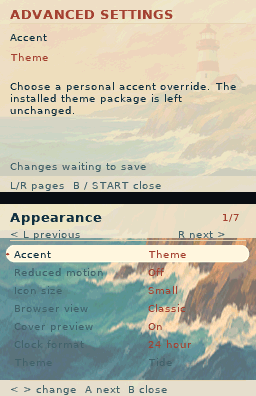
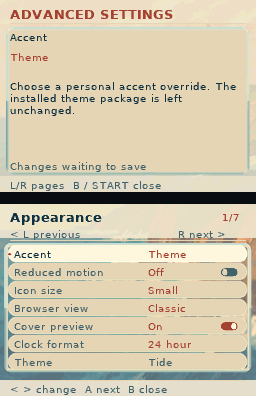
Document and preview themed settings and picker surfaces

diff --git a/tools/make_screenshots.py b/tools/make_screenshots.py
@@ -21,7 +21,12 @@ def main() -> None:
         choices=("boundary", "atmosphere", "personality"),
         help="Render a theme gallery",
     )
+    parser.add_argument(
+        "--theme-dialogs", action="store_true", help="Render settings and cover pickers"
+    )
     args = parser.parse_args()
+    if args.theme_dialogs and args.theme_variants:
+        parser.error("Choose either --theme-dialogs or --theme-variants")
     preview = ROOT / "build/host/preview"
     if not preview.is_file():
         raise SystemExit("Run tools/host-check.sh to build the host renderer first.")
@@ -57,7 +62,19 @@ def main() -> None:
                 )
             )
             examples = [(theme, theme, []) for theme in names]
-        columns = 4 if args.theme_variants == "personality" else 3
+        if args.theme_dialogs:
+            examples = [
+                (f"{theme}-{mode}", theme, [mode])
+                for mode in ("settings", "picker")
+                for theme in ("copper", "folio", "tide", "prism")
+            ]
+            artwork = card / "media/artwork"
+            artwork.mkdir(parents=True, exist_ok=True)
+            for filename in ("Botanical cover.png", "Coastal cover.png"):
+                shutil.copy2(
+                    ROOT / "tests/fixtures/cover-example.png", artwork / filename
+                )
+        columns = 4 if args.theme_dialogs or args.theme_variants == "personality" else 3
         rows = (len(examples) + columns - 1) // columns
         gallery = Image.new("RGB", (256 * columns, 420 * rows), "#090d12")
         for index, (name, theme, extra) in enumerate(examples):
@@ -81,15 +98,21 @@ def main() -> None:
             for screen, y in [("top", 0), ("bottom", 204)]:
                 with Image.open(str(prefix) + f"-{screen}.ppm") as image:
                     combined.paste(image, (0, y))
-            if args.theme_variants:
+            if args.theme_variants or args.theme_dialogs:
                 x, y = (index % columns) * 256, (index // columns) * 420
                 gallery.paste(combined, (x, y + 24))
                 ImageDraw.Draw(gallery).text(
-                    (x + 8, y + 6), theme.title(), fill="white"
+                    (x + 8, y + 6),
+                    (
+                        name.replace("-", " / ").title()
+                        if args.theme_dialogs
+                        else theme.title()
+                    ),
+                    fill="white",
                 )
             else:
                 combined.save(output / f"{name}.png", optimize=True)
-        if args.theme_variants:
+        if args.theme_variants or args.theme_dialogs:
             filename = (
                 "theme-personalities.png"
                 if args.theme_variants == "personality"
@@ -99,6 +122,8 @@ def main() -> None:
                     else "theme-variants.png"
                 )
             )
+            if args.theme_dialogs:
+                filename = "theme-controls.png"
             gallery.save(output / filename, optimize=True)
     print("Updated documentation screenshots from the host renderer.")
 

diff --git a/tools/preview.c b/tools/preview.c
@@ -3,6 +3,7 @@
 #include "audio.h"
 #include "browser.h"
 #include "paths.h"
+#include "picker.h"
 #include "preferences.h"
 #include "renderer.h"
 #include "settings.h"
@@ -52,20 +53,31 @@ static size_t heap_bytes(void)
 int main(int argc, char **argv)
 {
     if (argc < 3) {
-        fprintf(stderr, "usage: preview <SD folder> <output prefix> [category] [quick|settings]\n");
+        fprintf(stderr,
+                "usage: preview <SD folder> <output prefix> [category] [quick|settings|picker]\n");
         return 1;
     }
     bool profile = argc > 4 && !strcmp(argv[4], "profile");
+    bool picker_preview = argc > 4 && !strcmp(argv[4], "picker");
     double started = milliseconds();
     app_init(&app, argv[1], true, true);
     if (argc > 3)
         app_category(&app, atoi(argv[3]));
     if (argc > 4 && !strcmp(argv[4], "settings")) {
         settings_open(&app);
-    } else if (argc > 4 && !profile)
+    } else if (argc > 4 && !profile && !picker_preview)
         app_panel(&app, PANEL_QUICK);
     for (int frame = 0; frame < 20; frame++)
         app_tick(&app);
+    if (picker_preview) {
+        if (!picker_open(&app, PICKER_COVER) ||
+            !path_join(app.picker.path, app.root, "media/artwork"))
+            return 2;
+        picker_scan_begin(&app);
+        for (int frame = 0; frame < 40; frame++)
+            app_tick(&app);
+        path_copy(app.picker.path, "sd:/media/artwork", sizeof app.picker.path);
+    }
     app.panel_age = 20;
     artwork_load(&app);
     if (profile) {

diff --git a/docs/guides/THEME_PACKAGES.md b/docs/guides/THEME_PACKAGES.md
@@ -542,10 +542,10 @@ Inside that package-local directory, supply any of these **32×32 PNGs**:
 | --- | --- |
 | `header.png` | Browser and dialog headings on both screens. |
 | `footer.png` | Bottom control/status bands on both screens. |
-| `panel.png` | Quick-controls and item-action overlay surfaces. |
+| `panel.png` | Quick controls, item actions, settings explanations and picker inspectors. |
 | `row.png` | Ordinary browser rows; drawn beneath the moving selection. |
 | `icon-frame.png` | Transparent bezel around native/associated browser icons. |
-| `artwork-frame.png` | Transparent frame around resolved top-screen artwork. |
+| `artwork-frame.png` | Open frame around artwork, picker previews and settings/picker lists. |
 | `battery-empty.png`, `battery-low.png`, `battery-half.png`, `battery-high.png`, `battery-full.png` | Battery level sprites. |
 | `battery-charging.png`, `battery-unknown.png` | Charging or unavailable battery reading. |
 | `wireless-idle.png` | No active connection established by Gloam. |
@@ -563,6 +563,13 @@ the whole image. When a destination is too small for both corners, the corners
 shrink to fit. This keeps an outline or folded corner intact on a short row and
 a tall cover card. All output clips to the screen, including moving Shelf cards.
 Avoid words and icons inside these images: Gloam draws the live content over them.
+
+Keep the center stretch region of `artwork-frame.png` and `icon-frame.png`
+transparent. The bundled packs leave source pixels 8–23 clear in both directions;
+their material lives in the perimeter. Picker previews draw inside this frame,
+and settings/picker labels retain their usual clipping and touch bounds. Ordinary
+picker/settings choices use `row.png`; the focused choice uses `row-selected.png`.
+Older packs without those optional assets retain the standard drawing.
 
 Each PNG is at most 64 KiB. By default binary alpha and RGB555 follow the icon contract.
 Version-2 packs can add `alpha=coverage` in `[components]` to retain four levels:
@@ -623,6 +630,16 @@ Controls scale as whole sprites except the scrollbar, which uses nine-slice
 scaling. Keep small designs bold. Missing controls retain the standard drawing;
 touch bounds, input handling and text labels stay unchanged. All thirty component
 pixel buffers use at most 60 KiB per bank, plus optional coverage planes.
+
+All bundled packs opt into these controls. Material rims are prepared from the
+illustration masters during authoring, with opaque reading areas and open preview
+centers; the renderer does not sample textures or decode images while drawing.
+The UI asset bank remains one prepared file per theme.
+
+![Copper, Folio, Tide and Prism settings and cover pickers](../images/theme-controls.png)
+
+Regenerate this gallery with `.venv/bin/python tools/make_screenshots.py --theme-dialogs`
+after rebuilding the host preview.
 
 ### Lightweight feedback and accents
 
